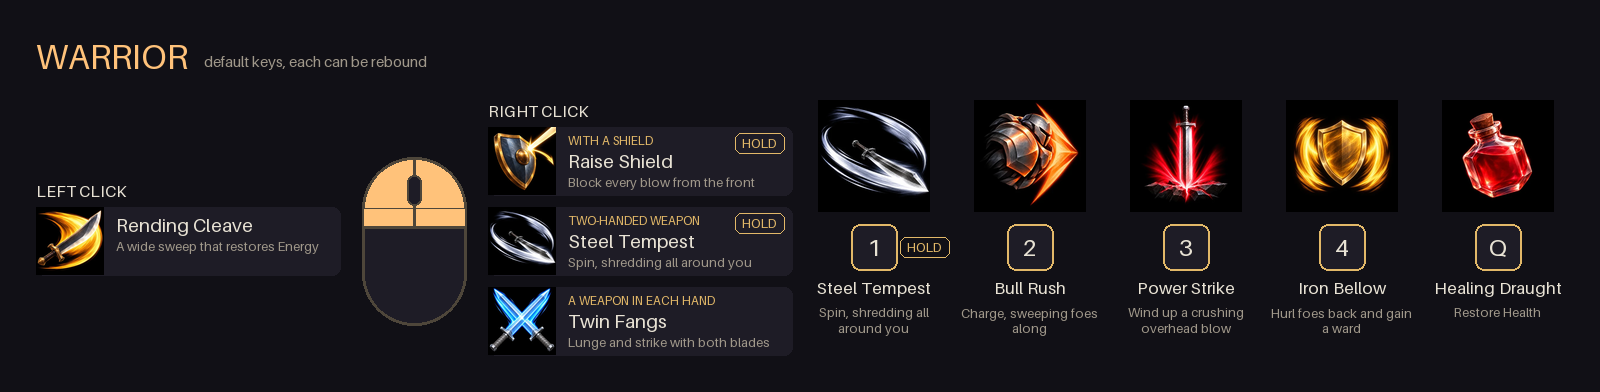
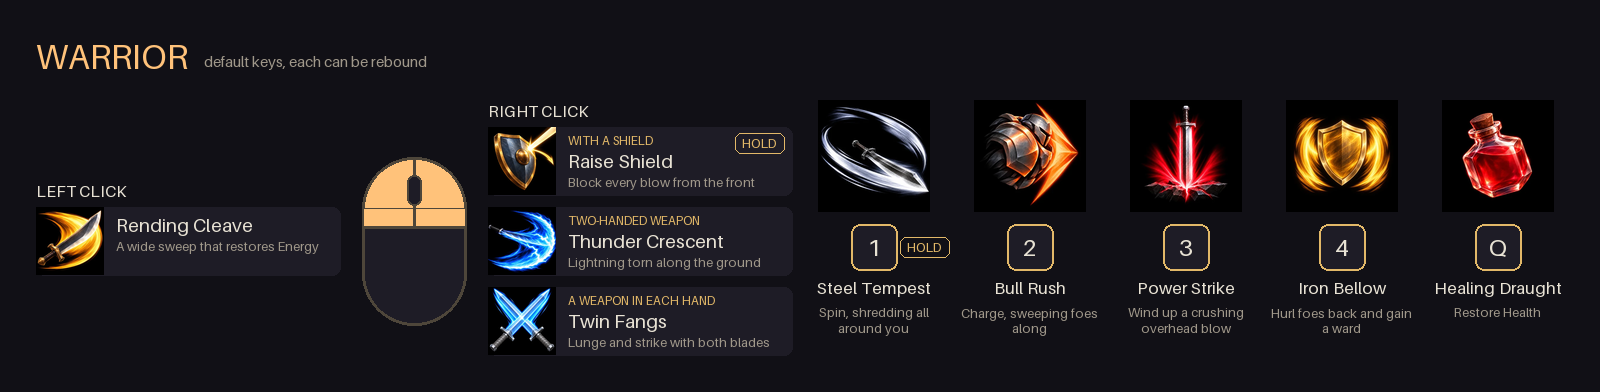
Warrior: a two-hander's right click is Thunder Crescent by default
Right click's default is Raise Shield, and with a two-handed weapon it fell back to Steel Tempest, which key 1 casts
already: Thunder Crescent, the two-hander's own skill, was on no key until the player bound it (from the owner, of
the README's key diagram: "right click with two handed is not steel tempest, it should be thunder crescent"). The
fallback is the crescent now. A two-handed loadout already saved keeps what it has.

The warrior's key diagram is drawn again from the data (tools/icons/keys.py gains the crescent's words).

Changed region(s): [[0.2812, 0.5204, 0.4688, 0.7041], [0.4688, 0.551, 0.5, 0.5816]]

diff --git a/src/data/classes/warrior.ts b/src/data/classes/warrior.ts
@@ -29,9 +29,9 @@ const warrior: ClassDef = {
     resist: 6,
   },
 
-  // Right click raises the shield; with a two-hander instead it spins (Steel Tempest), with a weapon in
+  // Right click raises the shield; with a two-hander instead it looses the crescent (Thunder Crescent), with a weapon in
   // each hand it strikes with both (Twin Fangs), and with a lone one-hander it is empty until the player
-  // binds something. The crescent takes a two-handed weapon. A key's default is the last skill listing it.
+  // binds something. A key's default is the last skill listing it.
   skills: [
     {
       key: 'mouse0', impl: 'cleave', name: 'Rending Cleave',
@@ -66,7 +66,7 @@ const warrior: ClassDef = {
       desc: 'Hold your shield up: every blow from the front is blocked, for three times your Block Amount. A bigger blow breaks your guard and staggers you: for a moment you can only move. Drains Energy while held.',
       tags: ['defense'], cost: 6, cooldown: 0, castTime: 0, channel: true,
       block: 3, moveMult: 0.45,
-      needs: 'shield', fallback: { twoHanded: 'tempest', dual: 'twinFangs' },
+      needs: 'shield', fallback: { twoHanded: 'crescent', dual: 'twinFangs' },
       icon: { glyph: '⛉', color: '#e8d2a0' },
     },
     {

diff --git a/tools/lab/page/cast.ts b/tools/lab/page/cast.ts
@@ -106,8 +106,7 @@ export function skillNamed(wanted: string): BoundSkill {
   throw new Error(`lab: cast: the ${G.player.cls.id} has no skill ${wanted}: ${known}`);
 }
 
-/** A skill the hero knows but hasn't on a key (Thunder Crescent, while the two-handed loadout has Steel Tempest on
- *  its key) put on its own key, as the player would bind it in the lobby. */
+/** A skill the hero knows but hasn't on a key (one a saved loadout left off its key) put on its own key, as the player would bind it in the lobby. */
 export function bindKnown(wanted: string): void {
   const hero = G.player;
   const name = wanted.toLowerCase();

diff --git a/tools/icons/keys.py b/tools/icons/keys.py
@@ -70,6 +70,7 @@ NOTES = {
     'potion': 'Restore Health',
     'cleave': 'A wide sweep that restores Energy',
     'raiseShield': 'Block every blow from the front',
+    'crescent': 'Lightning torn along the ground',
     'twinFangs': 'Lunge and strike with both blades',
     'tempest': 'Spin, shredding all around you',
     'bullRush': 'Charge, sweeping foes along',

diff --git a/README.md b/README.md
@@ -121,7 +121,7 @@ Robes and a crystal staff; arcane and elemental spells from range. A staff is at
 
 Plate armour; tougher, and fights up close: with a one-handed weapon and a shield, a weapon in each hand, or a two-handed weapon, and right click follows what is held. Shields **block**: each hit has the shield's Block Chance to be blocked, and holding right click raises the shield to block every hit from the front; a hit too big for it breaks the guard and staggers you. With a two-hander, Thunder Crescent can be bound to a key too.
 
-![The warrior's keys: left click Rending Cleave, right click Raise Shield, Steel Tempest or Twin Fangs by what is held, 1 Steel Tempest, 2 Bull Rush, 3 Power Strike, 4 Iron Bellow, Q Healing Draught](docs/screenshots/keys-warrior.png)
+![The warrior's keys: left click Rending Cleave, right click Raise Shield, Thunder Crescent or Twin Fangs by what is held, 1 Steel Tempest, 2 Bull Rush, 3 Power Strike, 4 Iron Bellow, Q Healing Draught](docs/screenshots/keys-warrior.png)
 
 ### The Ranger
 
